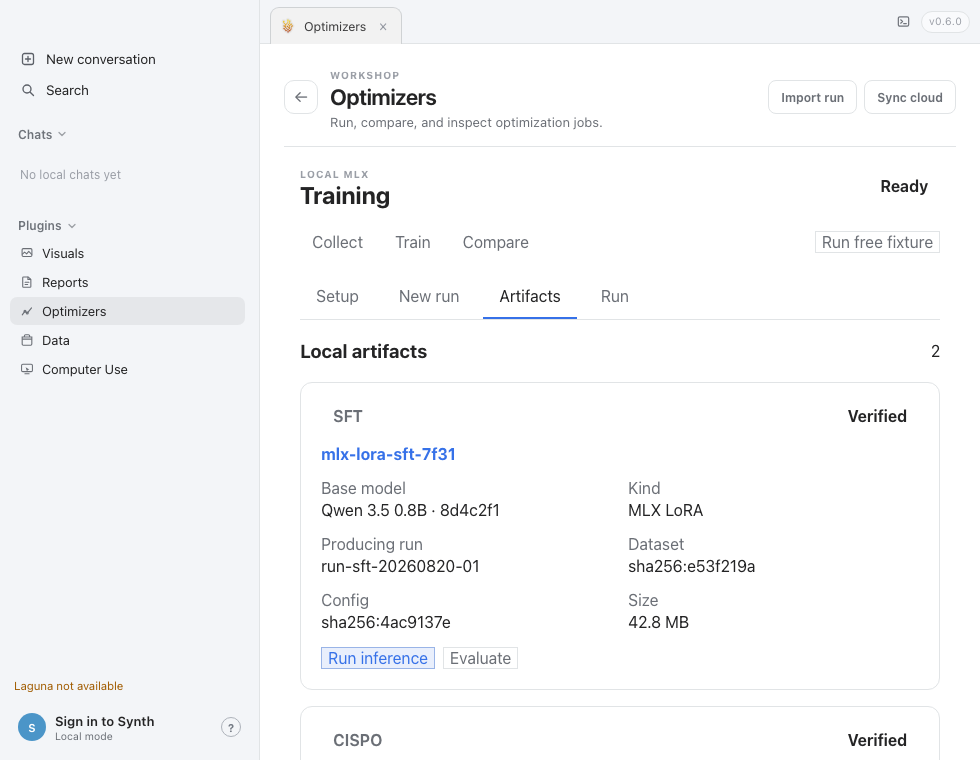
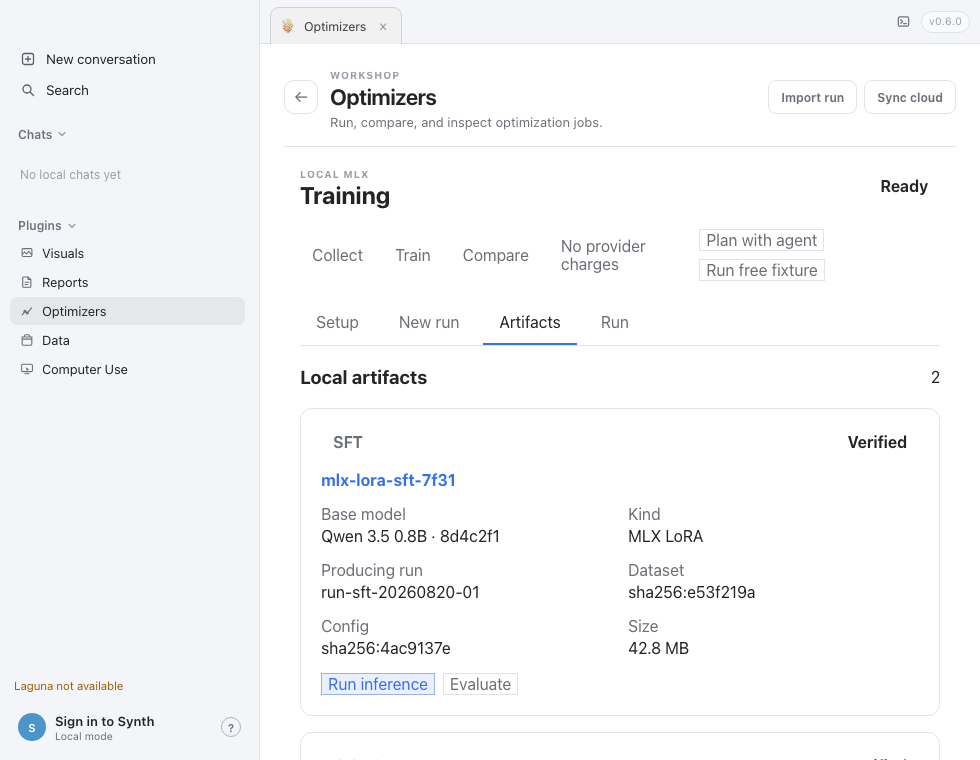
feat(training): bind MLX workspace to live bridges

diff --git a/apps/synth_desktop/src/renderer/src/components/TrainingWorkspace.tsx b/apps/synth_desktop/src/renderer/src/components/TrainingWorkspace.tsx
@@ -1,9 +1,21 @@
-import { useMemo, useRef, useState } from "react";
+import { useEffect, useMemo, useRef, useState } from "react";
+import type { MlxReadiness, ModelInstallPlan, TrainingArtifact } from "../bridge";
 import fixtures from "../fixtures/training.json";
+import { bridges } from "../runtime/desktopBridge";
+import { inspectMlxReadiness, planModelInstall, trainingArtifacts } from "../runtime/trainingExperience";
 
 type TrainingView = "setup" | "train" | "artifacts" | "run" | "inference" | "eval";
 type Confirmation = "install" | "start" | "inference" | "eval" | "delete" | null;
-type Artifact = (typeof fixtures.artifacts)[number];
+type Artifact = { id: string; kind: string; algorithm: string; baseModel: string; runId: string; dataset: string; datasetDigest: string; configDigest: string; sha256: string; size: string; integrity: string; backends: string[]; parentArtifactId: string | null };
+
+function formatBytes(bytes: number | null | undefined): string {
+	if (bytes == null) return "—";
+	return bytes >= 1024 ** 3 ? `${(bytes / 1024 ** 3).toFixed(2)} GB` : `${(bytes / 1024 ** 2).toFixed(1)} MB`;
+}
+
+function presentArtifact(item: TrainingArtifact): Artifact {
+	return { id: item.id, kind: item.kind, algorithm: item.algorithm.toUpperCase(), baseModel: `${item.baseModel.id}${item.baseModel.revision ? ` · ${item.baseModel.revision}` : ""}`, runId: item.producingRunId, dataset: item.datasetDigest ?? "—", datasetDigest: item.datasetDigest ?? "—", configDigest: item.configDigest ?? "—", sha256: item.sha256 ?? "—", size: formatBytes(item.sizeBytes), integrity: item.integrity[0].toUpperCase() + item.integrity.slice(1), backends: item.compatibleBackends, parentArtifactId: item.parentArtifactId ?? null };
+}
 
 function Kv({ values }: { values: Array<[string, string]> }) {
 	return <dl className="training-kv">{values.map(([key, value]) => <div key={key}><dt>{key}</dt><dd>{value}</dd></div>)}</dl>;
@@ -27,30 +39,59 @@ function ConfirmationSheet({ kind, artifact, onClose, onConfirm }: { kind: Exclu
 	</section></div>;
 }
 
-export function TrainingWorkspace({ onStartFixture, fixtureBusy = false }: { onStartFixture?: () => void; fixtureBusy?: boolean }) {
+export function TrainingWorkspace({ onStartFixture, onStartAgent, fixtureBusy = false }: { onStartFixture?: () => void; onStartAgent?: () => void; fixtureBusy?: boolean }) {
 	const [view, setView] = useState<TrainingView>("artifacts");
 	const [algorithm, setAlgorithm] = useState<"sft" | "cispo">("sft");
 	const [selectedId, setSelectedId] = useState(fixtures.artifacts[1].id);
 	const [confirmation, setConfirmation] = useState<Confirmation>(null);
 	const [installState, setInstallState] = useState<"absent" | "installing" | "cancelled" | "failed" | "ready">("ready");
 	const [failedLoad, setFailedLoad] = useState(false);
+	const [artifacts, setArtifacts] = useState<Artifact[]>(fixtures.artifacts);
+	const [readiness, setReadiness] = useState<MlxReadiness | null>(null);
+	const [installPlan, setInstallPlan] = useState<ModelInstallPlan | null>(null);
 	const dialogReturn = useRef<TrainingView>("artifacts");
-	const artifact = useMemo(() => fixtures.artifacts.find((item) => item.id === selectedId) ?? fixtures.artifacts[0], [selectedId]);
+	const artifact = useMemo(() => artifacts.find((item) => item.id === selectedId) ?? artifacts[0] ?? fixtures.artifacts[0], [artifacts, selectedId]);
 	const openArtifactAction = (next: "inference" | "eval") => { dialogReturn.current = next; setView(next); setFailedLoad(false); };
 	const confirm = (kind: Exclude<Confirmation, null>) => setConfirmation(kind);
+	const executeConfirmation = async (kind: Exclude<Confirmation, null>) => {
+		setConfirmation(null);
+		if (kind === "install") {
+			setInstallState("installing");
+			try { await bridges.trainingModels?.downloadModel(installPlan?.modelId ?? "Qwen/Qwen3.5-0.8B"); setInstallState("ready"); }
+			catch { setInstallState("failed"); }
+			return;
+		}
+		if (kind === "delete") { await trainingArtifacts.delete(artifact.id); setArtifacts((items) => items.filter((item) => item.id !== artifact.id)); return; }
+		if (kind === "inference") { await trainingArtifacts.launchInference(artifact.id, { mergeAdapter: false }); return; }
+		if (kind === "eval") await trainingArtifacts.launchEval(artifact.id, "eval.gsm8k.mlx.v1");
+	};
+	useEffect(() => {
+		let live = true;
+		void Promise.all([inspectMlxReadiness(), planModelInstall(), trainingArtifacts.list()]).then(([nextReadiness, nextPlan, nextArtifacts]) => {
+			if (!live) return;
+			setReadiness(nextReadiness);
+			setInstallPlan(nextPlan);
+			if (nextArtifacts.length > 0) {
+				const presented = nextArtifacts.map(presentArtifact);
+				setArtifacts(presented);
+				setSelectedId((current) => presented.some((item) => item.id === current) ? current : presented[0].id);
+			}
+		}).catch(() => undefined);
+		return () => { live = false; };
+	}, []);
 
 	return <section className="training-workspace" aria-labelledby="training-title" data-testid="training-workspace">
-		<div className="training-heading"><div><span className="optimizer-eyebrow">Local MLX</span><h2 id="training-title">Training</h2></div><span className="training-status" data-state={fixtures.readiness.runtimeHealth.toLowerCase()}>{fixtures.readiness.runtimeHealth}</span></div>
-		<div className="training-launch-row" data-testid="optimizer-guide-sft"><div className="training-flow" aria-label="SFT workflow"><span>Collect</span><span>Train</span><span>Compare</span></div>{onStartFixture ? <button className="secondary-button" type="button" disabled={fixtureBusy} onClick={onStartFixture} data-testid="start-sft-fixture">{fixtureBusy ? "Starting fixture…" : "Run free fixture"}</button> : null}</div>
+		<div className="training-heading"><div><span className="optimizer-eyebrow">Local MLX</span><h2 id="training-title">Training</h2></div><span className="training-status" data-state={(readiness?.runtimeHealth ?? "ready").toLowerCase()}>{readiness?.runtimeHealth === "missing" ? "Runtime missing" : "Ready"}</span></div>
+		<div className="training-launch-row" data-testid="optimizer-guide-sft"><div className="training-flow" aria-label="SFT workflow"><span>Collect</span><span>Train</span><span>Compare</span><span>no provider charges</span></div><div className="training-actions">{onStartAgent ? <button className="secondary-button" type="button" onClick={onStartAgent} data-testid="start-sft-agent">Plan with agent</button> : null}{onStartFixture ? <button className="secondary-button" type="button" disabled={fixtureBusy} onClick={onStartFixture} data-testid="start-sft-fixture">{fixtureBusy ? "Starting fixture…" : "Run free fixture"}</button> : null}</div></div>
 		<nav className="training-tabs" aria-label="Training sections">
 			{(["setup", "train", "artifacts", "run"] as const).map((item) => <button key={item} type="button" aria-current={view === item ? "page" : undefined} onClick={() => setView(item)} data-testid={`training-tab-${item}`}>{item === "setup" ? "Setup" : item === "train" ? "New run" : item[0].toUpperCase() + item.slice(1)}</button>)}
 		</nav>
 
 		{view === "setup" ? <div className="training-panel" data-testid="training-setup" data-install-state={installState}>
 			<div className="training-section-head"><h3>MLX readiness</h3><span className="training-status" data-state="ready">Compatible</span></div>
-			<Kv values={[["Platform", fixtures.readiness.platform], ["Runtime", fixtures.readiness.runtime], ["Runtime health", fixtures.readiness.runtimeHealth], ["Memory", fixtures.readiness.memory], ["Disk", fixtures.readiness.disk]]} />
+			<Kv values={[["Platform", readiness?.platform === "apple_silicon" ? "Apple Silicon" : fixtures.readiness.platform], ["Runtime", readiness?.runtimeVersion ?? fixtures.readiness.runtime], ["Runtime health", readiness?.runtimeHealth ?? fixtures.readiness.runtimeHealth], ["Memory", fixtures.readiness.memory], ["Disk", fixtures.readiness.disk]]} />
 			<div className="training-model" data-testid="on-device-training-catalog"><div className="training-section-head"><h3>{fixtures.model.name}</h3><span className="training-status" data-state={installState}>{installState === "failed" ? "Checksum failed" : installState[0].toUpperCase() + installState.slice(1)}</span></div>
-				<Kv values={[["Source", fixtures.model.source], ["Revision", fixtures.model.revision], ["Digest", fixtures.model.digest], ["License", fixtures.model.license], ["Download", fixtures.model.size], ["Disk after", fixtures.model.diskAfter]]} />
+				<Kv values={[["Source", installPlan?.source ?? fixtures.model.source], ["Revision", installPlan?.revision ?? fixtures.model.revision], ["Digest", installPlan?.digest ?? fixtures.model.digest], ["License", installPlan?.license ?? fixtures.model.license], ["Download", installPlan ? formatBytes(installPlan.downloadBytes) : fixtures.model.size], ["Disk after", fixtures.model.diskAfter]]} />
 				{installState === "installing" ? <div className="training-progress"><progress value={63} max={100} aria-label="Qwen model download" data-testid={`progress-${fixtures.model.id}`} /><span>706 MB / 1.12 GB · 63%</span><div className="training-actions"><button type="button" className="secondary-button" onClick={() => setInstallState("cancelled")}>Cancel download</button></div></div> : null}
 				{installState === "failed" ? <div role="alert" className="training-terminal" data-testid="training-install-failure"><strong>Checksum failed</strong><span>Managed copy not installed</span></div> : null}
 				<div className="training-actions"><button type="button" className="primary-button" onClick={() => confirm("install")}>Install managed copy</button><button type="button" className="secondary-button" onClick={() => setInstallState(installState === "installing" ? "cancelled" : "installing")}>{installState === "cancelled" ? "Resume download" : "Show progress"}</button><button type="button" className="secondary-button" onClick={() => setInstallState("failed")}>Checksum state</button></div>
@@ -62,13 +103,13 @@ export function TrainingWorkspace({ onStartFixture, fixtureBusy = false }: { onS
 				<label><span>Base model</span><select defaultValue={fixtures.model.id}><option value={fixtures.model.id}>{fixtures.model.name}</option></select></label>
 				<label><span>Dataset</span><select defaultValue="gsm8k"><option value="gsm8k">GSM8K · main@e53f</option></select></label>
 				<label><span>Recipe</span><select value={algorithm} onChange={(event) => setAlgorithm(event.target.value as "sft" | "cispo")}><option value="sft">SFT</option><option value="cispo">CISPO</option></select></label>
-				{algorithm === "cispo" ? <label><span>Parent artifact</span><select value={selectedId} onChange={(event) => setSelectedId(event.target.value)}>{fixtures.artifacts.filter((item) => item.algorithm === "SFT").map((item) => <option key={item.id} value={item.id}>{item.id}</option>)}</select></label> : null}
+				{algorithm === "cispo" ? <label><span>Parent artifact</span><select value={selectedId} onChange={(event) => setSelectedId(event.target.value)}>{artifacts.filter((item) => item.algorithm === "SFT").map((item) => <option key={item.id} value={item.id}>{item.id}</option>)}</select></label> : null}
 				<label><span>Steps</span><input type="number" min="1" max="240" defaultValue="120" /></label><label><span>Wall clock</span><select defaultValue="20"><option value="20">20 min</option></select></label><label><span>Memory cap</span><select defaultValue="12"><option value="12">12 GB</option></select></label>
 			</div><div className="training-preview" data-testid="training-resolved-config"><h4>Resolved configuration</h4><Kv values={[["Model", `${fixtures.model.name} · ${fixtures.model.revision}`], ["Dataset", "GSM8K · sha256:e53f219a"], ["Recipe", algorithm.toUpperCase()], ["LoRA", "rank 16 · alpha 32 · q/k/v/o_proj"], ["Bounds", "120 steps · 20 min · 12 GB"], ["Output", "Managed artifacts"], ["Runtime", fixtures.readiness.runtime]]} /></div>
 			<div className="training-actions"><button type="submit" className="primary-button">Review run</button></div>
 		</form> : null}
 
-		{view === "artifacts" ? <div className="training-panel" data-testid="training-artifact-library"><div className="training-section-head"><h3>Local artifacts</h3><span>{fixtures.artifacts.length}</span></div><div className="training-artifact-grid">{fixtures.artifacts.map((item) => <article className="training-artifact" key={item.id} data-testid={`training-artifact-${item.id}`}><div className="training-section-head"><span className="training-algorithm">{item.algorithm}</span><span className="training-status" data-state="ready">{item.integrity}</span></div><button type="button" className="training-artifact-title" onClick={() => setSelectedId(item.id)} aria-pressed={selectedId === item.id}>{item.id}</button><Kv values={[["Base model", item.baseModel], ["Kind", item.kind], ["Producing run", item.runId], ["Dataset", item.datasetDigest], ["Config", item.configDigest], ["Size", item.size]]} />{item.parentArtifactId ? <div className="training-lineage" data-testid="training-artifact-lineage"><span>Parent</span><button type="button" onClick={() => setSelectedId(String(item.parentArtifactId))}>{item.parentArtifactId}</button></div> : null}<div className="training-actions"><button type="button" className="primary-button" onClick={() => openArtifactAction("inference")}>Run inference</button><button type="button" className="secondary-button" onClick={() => openArtifactAction("eval")}>Evaluate</button></div></article>)}</div>
+		{view === "artifacts" ? <div className="training-panel" data-testid="training-artifact-library"><div className="training-section-head"><h3>Local artifacts</h3><span>{artifacts.length}</span></div><div className="training-artifact-grid">{artifacts.map((item) => <article className="training-artifact" key={item.id} data-testid={`training-artifact-${item.id}`}><div className="training-section-head"><span className="training-algorithm">{item.algorithm}</span><span className="training-status" data-state="ready">{item.integrity}</span></div><button type="button" className="training-artifact-title" onClick={() => setSelectedId(item.id)} aria-pressed={selectedId === item.id}>{item.id}</button><Kv values={[["Base model", item.baseModel], ["Kind", item.kind], ["Producing run", item.runId], ["Dataset", item.datasetDigest], ["Config", item.configDigest], ["Size", item.size]]} />{item.parentArtifactId ? <div className="training-lineage" data-testid="training-artifact-lineage"><span>Parent</span><button type="button" onClick={() => setSelectedId(String(item.parentArtifactId))}>{item.parentArtifactId}</button></div> : null}<div className="training-actions"><button type="button" className="primary-button" onClick={() => openArtifactAction("inference")}>Run inference</button><button type="button" className="secondary-button" onClick={() => openArtifactAction("eval")}>Evaluate</button></div></article>)}</div>
 			<div className="training-detail" data-testid="training-artifact-detail"><div className="training-section-head"><div><span className="optimizer-eyebrow">Artifact detail</span><h3>{artifact.id}</h3></div><span className="training-status" data-state="ready">{artifact.integrity}</span></div><Kv values={[["Base model", artifact.baseModel], ["Adapter", `${artifact.kind} · ${artifact.sha256}`], ["Producing run", artifact.runId], ["Dataset", artifact.datasetDigest], ["Config", artifact.configDigest], ["Compatible", artifact.backends.join(" · ")]]} /><div className="training-actions"><button type="button" className="primary-button" onClick={() => openArtifactAction("inference")}>Run inference</button><button type="button" className="secondary-button" onClick={() => openArtifactAction("eval")}>Evaluate</button><button type="button" className="secondary-button">Export</button><button type="button" className="secondary-button training-danger" onClick={() => confirm("delete")}>Delete</button></div></div>
 		</div> : null}
 
@@ -76,6 +117,6 @@ export function TrainingWorkspace({ onStartFixture, fixtureBusy = false }: { onS
 
 		{view === "inference" || view === "eval" ? <div className="training-panel" data-testid={`artifact-${view}`}><button type="button" className="training-back" onClick={() => setView("artifacts")}>← Artifacts</button><div className="training-section-head"><div><span className="optimizer-eyebrow">{view === "eval" ? "Local Eval" : "MLX inference"}</span><h3>{view === "eval" ? "Evaluate artifact" : "Run inference"}</h3></div><span className="training-status" data-state={failedLoad ? "failed" : "ready"}>{failedLoad ? "Failed" : "Prefilled"}</span></div><Kv values={[["Artifact", artifact.id], ["Base model", artifact.baseModel], ["Adapter", `${artifact.kind} · ${artifact.sha256}`], ["Producing run", artifact.runId], ["Config", artifact.configDigest], ...(view === "eval" ? [["Recipe", "GSM8K exact-match"], ["Metric", "exact_match · higher"]] as Array<[string, string]> : [["Load", "Base + adapter"], ["Merge", "Off"]] as Array<[string, string]>)]} />{failedLoad ? <div className="training-terminal" role="alert" data-testid="artifact-failed-load"><strong>Adapter load failed</strong><span>Base model revision mismatch</span></div> : <div className="training-actions"><button type="button" className="primary-button" onClick={() => confirm(view)}>{view === "eval" ? "Review Eval" : "Review inference"}</button><button type="button" className="secondary-button" onClick={() => setFailedLoad(true)}>Failed-load state</button></div>}</div> : null}
 
-		{confirmation ? <ConfirmationSheet kind={confirmation} artifact={artifact} onClose={() => setConfirmation(null)} onConfirm={() => { if (confirmation === "install") setInstallState("installing"); setConfirmation(null); }} /> : null}
+		{confirmation ? <ConfirmationSheet kind={confirmation} artifact={artifact} onClose={() => setConfirmation(null)} onConfirm={() => void executeConfirmation(confirmation)} /> : null}
 	</section>;
 }

diff --git a/apps/synth_desktop/src/renderer/src/runtime/trainingExperience.ts b/apps/synth_desktop/src/renderer/src/runtime/trainingExperience.ts
@@ -1,0 +1,85 @@
+import type { MlxReadiness, ModelInstallPlan, SavedLoraCheckpoint, TrainingArtifact, TrainingArtifactsBridge } from "../bridge";
+import { bridges } from "./desktopBridge";
+
+const MODEL_ID = "Qwen/Qwen3.5-0.8B";
+const MODEL_REVISION = "2fc06364715b967f1860aea9cf38778875588b17";
+
+function metadataString(checkpoint: SavedLoraCheckpoint, key: string): string | null {
+	const value = checkpoint.metadata[key];
+	return typeof value === "string" && value.length > 0 ? value : null;
+}
+
+function asArtifact(checkpoint: SavedLoraCheckpoint): TrainingArtifact | null {
+	const algorithm = checkpoint.lineage.optimizerAlgorithm ?? checkpoint.optimizerAlgorithm;
+	if (algorithm !== "sft" && algorithm !== "cispo") return null;
+	const runId = checkpoint.lineage.runId ?? checkpoint.runId;
+	if (!runId) return null;
+	return {
+		id: checkpoint.checkpointId,
+		kind: checkpoint.provider === "imported" || checkpoint.storage.backend === "minio" ? "mlx-lora.v1" : checkpoint.checkpointKind === "training" ? "training-checkpoint.v1" : "hosted-lora.v1",
+		algorithm,
+		baseModel: { id: checkpoint.baseModel, revision: metadataString(checkpoint, "baseModelRevision") },
+		producingRunId: runId,
+		datasetDigest: metadataString(checkpoint, "datasetDigest"),
+		configDigest: metadataString(checkpoint, "configDigest"),
+		sha256: checkpoint.storage.sha256 ?? null,
+		sizeBytes: checkpoint.storage.sizeBytes ?? null,
+		integrity: checkpoint.status === "ready" && checkpoint.storage.sha256 ? "verified" : checkpoint.status === "failed" ? "failed" : checkpoint.status === "uploading" ? "pending" : "unknown",
+		compatibleBackends: checkpoint.checkpointKind === "inference" ? ["MLX inference", "Local Eval"] : ["MLX training"],
+		parentArtifactId: checkpoint.lineage.sourceCheckpointId ?? checkpoint.sourceCheckpointId ?? null
+	};
+}
+
+export async function inspectMlxReadiness(): Promise<MlxReadiness> {
+	const appleSilicon = /Mac/.test(navigator.platform) && navigator.maxTouchPoints === 0;
+	return {
+		platform: appleSilicon ? "apple_silicon" : "unknown",
+		compatibility: appleSilicon ? "compatible" : "unknown",
+		runtimeHealth: bridges.trainingModels ? "ready" : "missing",
+		runtimeVersion: null,
+		availableMemoryBytes: null,
+		availableDiskBytes: null,
+		failureClass: bridges.trainingModels ? null : "runtime"
+	};
+}
+
+export async function planModelInstall(): Promise<ModelInstallPlan> {
+	const installed = await bridges.trainingModels?.listModels() ?? [];
+	return {
+		modelId: MODEL_ID,
+		title: "Qwen 3.5 0.8B (MLX training)",
+		source: MODEL_ID,
+		revision: MODEL_REVISION,
+		digest: null,
+		license: "Apache-2.0",
+		downloadBytes: 1_750_000_000,
+		minimumFreeDiskBytes: 3 * 1024 ** 3,
+		alreadyPresent: installed.some((hit) => hit.modelId === MODEL_ID && hit.revision === MODEL_REVISION),
+		compatible: true
+	};
+}
+
+export const trainingArtifacts: TrainingArtifactsBridge = {
+	async list() {
+		if (!bridges.optimizers) return [];
+		const page = await bridges.optimizers.searchSavedLoras({ scope: "all", status: "ready", limit: 200 });
+		return page.items.map(asArtifact).filter((item): item is TrainingArtifact => item !== null);
+	},
+	async inspect(id) {
+		const artifact = (await this.list()).find((item) => item.id === id);
+		if (!artifact) throw new Error(`Training artifact ${id} is unavailable`);
+		return artifact;
+	},
+	async launchInference(id) {
+		await this.inspect(id);
+		return { artifactId: id, status: "planned" };
+	},
+	async launchEval(id, recipeId) {
+		await this.inspect(id);
+		return { artifactId: id, recipeId, status: "planned" };
+	},
+	async delete(id) {
+		if (!bridges.optimizers) throw new Error("Training artifact deletion requires Synth Desktop");
+		await bridges.optimizers.archiveSavedLora(id);
+	}
+};

diff --git a/apps/synth_desktop/src/renderer/src/bridge/types.ts b/apps/synth_desktop/src/renderer/src/bridge/types.ts
@@ -139,6 +139,54 @@ export type TrainingModelsBridge = {
 	onDownloadProgress(listener: (progress: TrainingModelDownloadProgress) => void): () => void;
 };
 
+export type MlxReadinessFailureClass = "runtime" | "platform" | "disk" | "network" | "auth_license" | "model_compatibility" | "checksum";
+
+export type MlxReadiness = {
+	platform: "apple_silicon" | "unsupported" | "unknown";
+	compatibility: "compatible" | "incompatible" | "unknown";
+	runtimeHealth: "ready" | "missing" | "unhealthy" | "unknown";
+	runtimeVersion?: string | null;
+	availableMemoryBytes?: number | null;
+	availableDiskBytes?: number | null;
+	failureClass?: MlxReadinessFailureClass | null;
+};
+
+export type ModelInstallPlan = {
+	modelId: string;
+	title: string;
+	source: string;
+	revision: string;
+	digest?: string | null;
+	license: string;
+	downloadBytes: number;
+	minimumFreeDiskBytes: number;
+	alreadyPresent: boolean;
+	compatible: boolean;
+};
+
+export type TrainingArtifact = {
+	id: string;
+	kind: "mlx-lora.v1" | "training-checkpoint.v1" | "hosted-lora.v1";
+	algorithm: "sft" | "cispo";
+	baseModel: { id: string; revision?: string | null };
+	producingRunId: string;
+	datasetDigest?: string | null;
+	configDigest?: string | null;
+	sha256?: string | null;
+	sizeBytes?: number | null;
+	integrity: "verified" | "pending" | "failed" | "unknown";
+	compatibleBackends: string[];
+	parentArtifactId?: string | null;
+};
+
+export type TrainingArtifactsBridge = {
+	list(): Promise<TrainingArtifact[]>;
+	inspect(id: string): Promise<TrainingArtifact>;
+	launchInference(id: string, options?: { mergeAdapter?: boolean }): Promise<{ artifactId: string; status: "planned" | "started" }>;
+	launchEval(id: string, recipeId: string): Promise<{ artifactId: string; recipeId: string; status: "planned" | "started" }>;
+	delete(id: string): Promise<void>;
+};
+
 export type WhisperModelHit = {
 	id: string;
 	title: string;

diff --git a/apps/synth_desktop/tests/playwright/training-workspace.spec.ts b/apps/synth_desktop/tests/playwright/training-workspace.spec.ts
@@ -2,6 +2,12 @@ import { expect, test } from "./browser.fixture";
 
 test.beforeEach(async ({ page }) => {
 	await page.addInitScript(() => {
+		(window as any).synthTrainingModels = {
+			listModels: async () => [],
+			downloadModel: async (modelId: string) => new Promise(() => modelId),
+			deleteModel: async () => undefined,
+			onDownloadProgress: () => () => undefined
+		};
 		(window as any).synthOptimizers = {
 			listAlgorithms: async () => [], list: async () => [], listRecipes: async () => [], listCloud: async () => [],
 			hostedTrainingModels: async () => ({ revision: "fixture", models: [] }), searchSavedLoras: async () => ({ items: [], total: 0 }),

diff --git a/apps/synth_desktop/src/renderer/src/components/OptimizersPage.tsx b/apps/synth_desktop/src/renderer/src/components/OptimizersPage.tsx
@@ -867,7 +867,7 @@ export function OptimizersPage({
 				</section>
 			) : null}
 
-			<TrainingWorkspace onStartFixture={() => void startSftFixture()} fixtureBusy={startingSftFixture} />
+			<TrainingWorkspace onStartFixture={() => void startSftFixture()} onStartAgent={() => { const guide = OPTIMIZER_GUIDES.find((item) => item.id === "sft"); if (guide) void startAgent(guide); }} fixtureBusy={startingSftFixture} />
 
 			<section className="optimizer-recipes" aria-labelledby="optimizer-recipes-title">
 				<div className="optimizer-recipes-head">

diff --git a/docs/receipts/2026-08-20/v0.7-training-ui/README.md b/docs/receipts/2026-08-20/v0.7-training-ui/README.md
@@ -4,15 +4,15 @@ Fixture-fed renderer receipts captured by `training-workspace.spec.ts` on base `
 
 | Receipt | Viewport | SHA-256 |
 | --- | --- | --- |
[24 lines of base64/hex data omitted]
